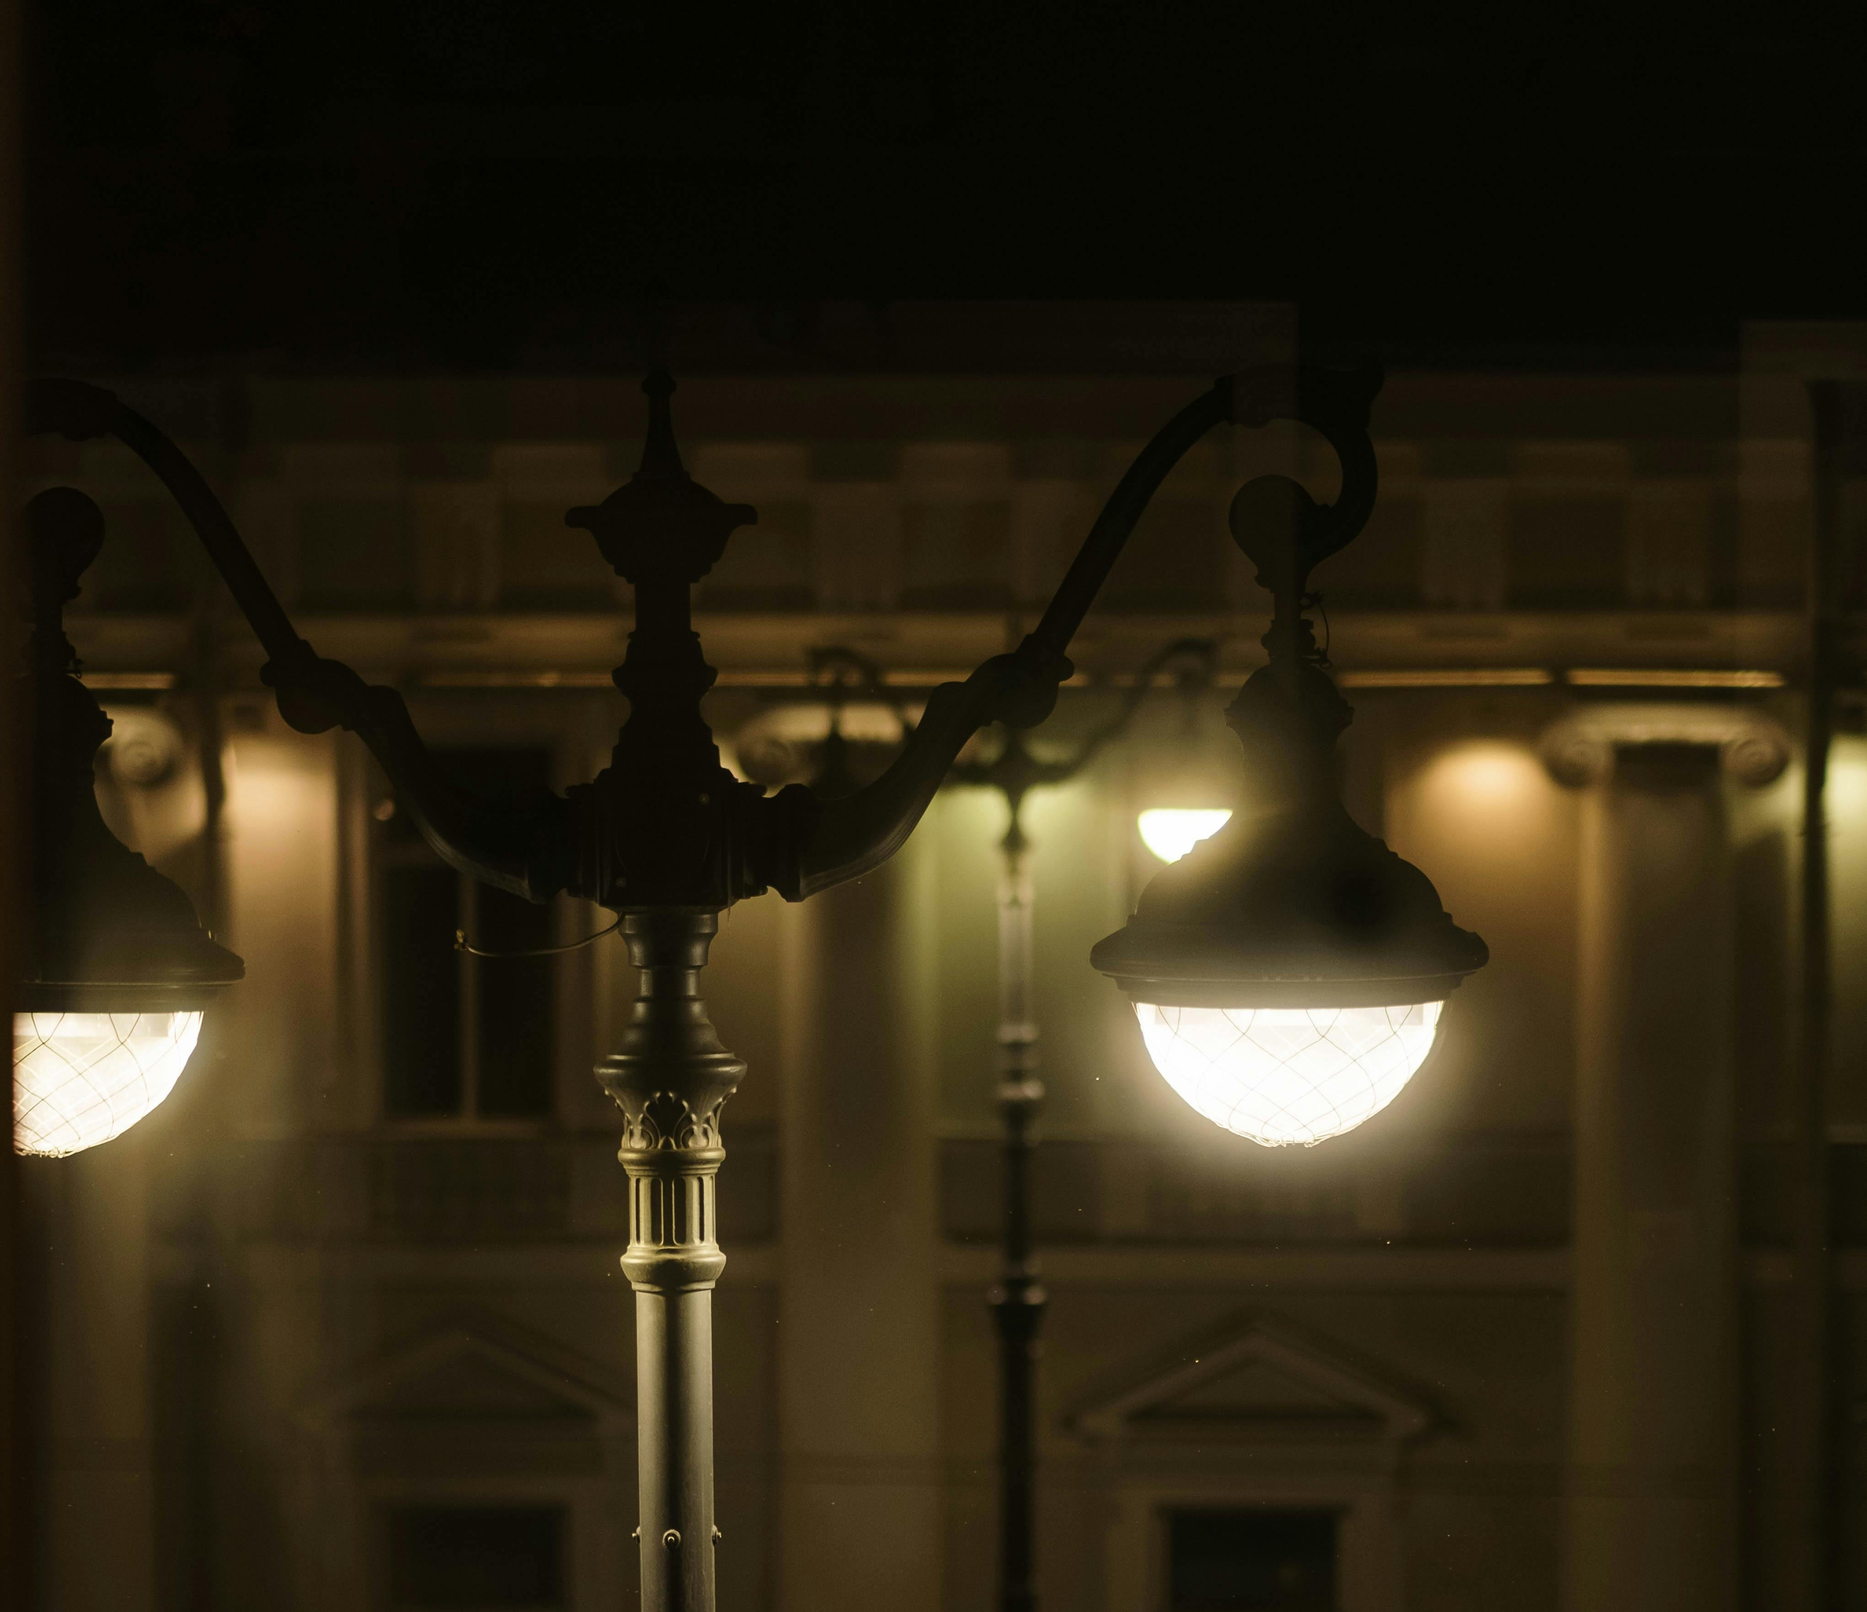
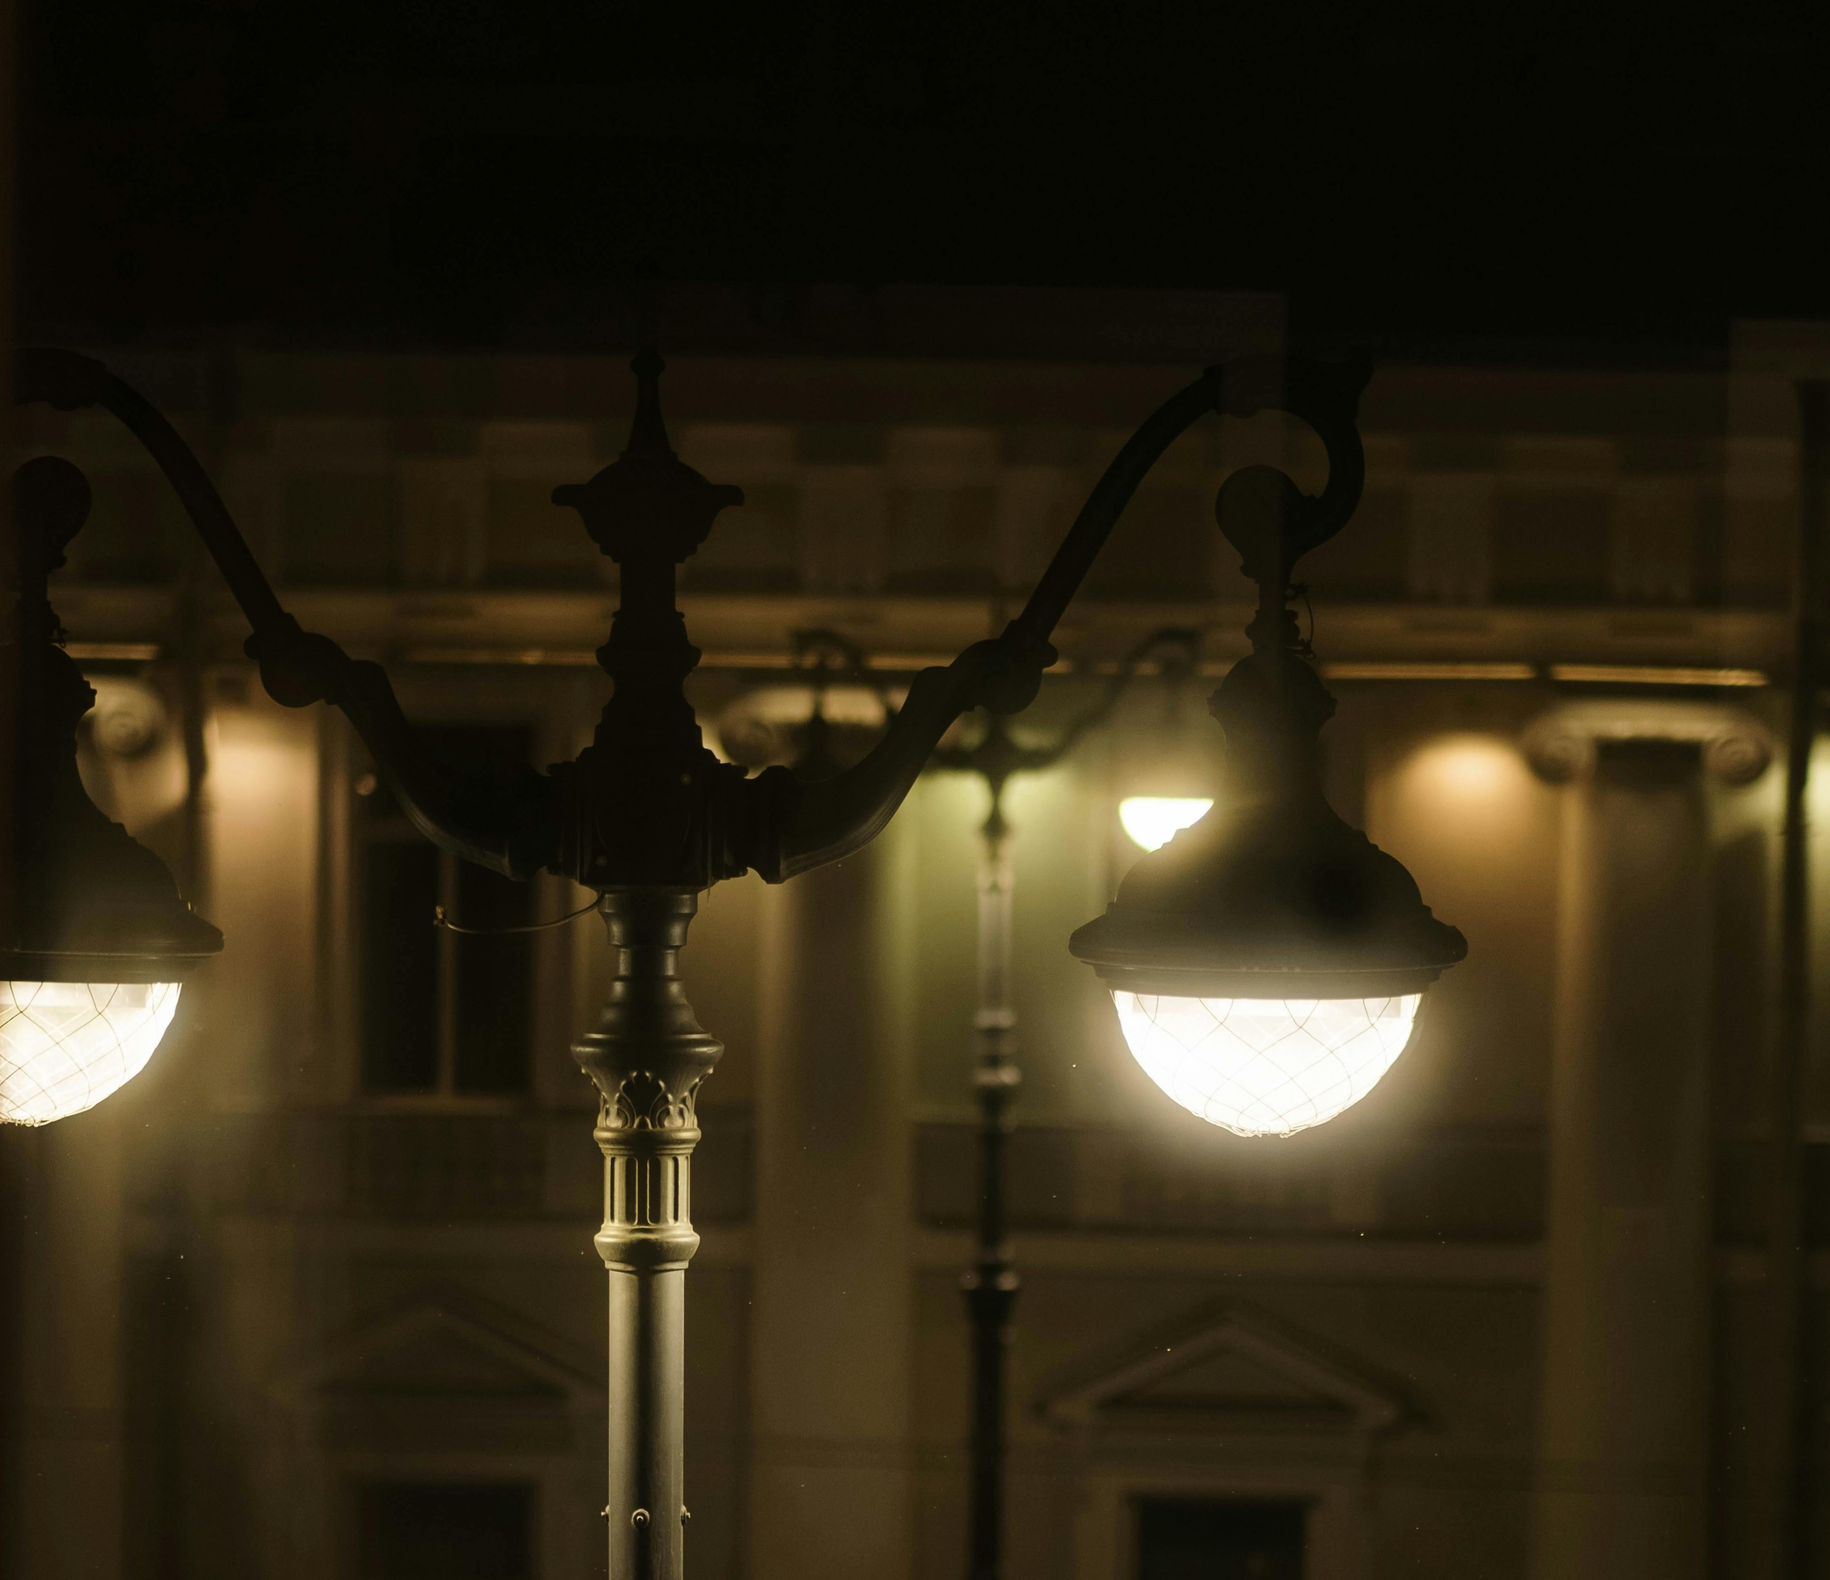
Edit in article page

diff --git a/src/app/articles/page.js b/src/app/articles/page.js
@@ -219,7 +219,7 @@ function Articles() {
                 <main className="max-w-4xl mx-auto px-6 py-10 space-y-8">
                     <p>در روزگاری که معماری مینیمال، شیشهای و دیجیتال همهجا را فرا گرفته، هنوز هم در گوشهوکنار ایران ویلاها و بناهایی میبینیم با ستونهای مرمری، قوسهای بزرگ و جزئیات سنگی پر از ظرافت. فرمهایی که گویی از دل تاریخ، از شکوه کاخهای باستانی تا معماری نئوکلاسیک اروپا، دوباره به زمان ما بازگشتهاند. اما این پافشاری بر فرمهای کلاسیک صرفاً نوستالژی نیست؛ بلکه پاسخی است به یک نیاز عمیقتر: نیاز انسان به حس شکوه، ثبات و جاودانگی.</p>
 
-                    <h2 className="text-2xl font-semibold text-yellow-700">زبان سنگ و احساس قدرت</h2>
+                    <h2 className="text-2xl font-semibold text-[#7e6229]">زبان سنگ و احساس قدرت</h2>
                     <p>ستونهای کلاسیک و قوسهای نیمدایره، فراتر از تزئیناتاند؛ آنها زبانی هستند برای بیان اقتدار و وقار. در فرهنگی که سرعت تغییر بیوقفه است، معماران و کارفرمایان لوکس به دنبال چیزی میگردند که “ابدی” به نظر برسد. ستونهای بلند و متقارن، حس ثبات و اطمینان را القا میکنند — همان حسی که نیاکان ما قرنها پیش در برابر بناهای سنگی، از تختجمشید تا عمارتهای قاجاری تجربه میکردند.</p>
 
                     <blockquote className="border-r-4 border-yellow-600 pr-4 italic text-gray-700 bg-yellow-50 p-4 rounded-lg">معماری کلاسیک فقط زبان سنگ نیست؛ زبان زمان است. گفتوگویی میان دوام، وقار و احساس انسانی.</blockquote>
@@ -268,22 +268,16 @@ function Articles() {
                             </div>
 
                             <div className="rounded-xl overflow-hidden shadow hover:shadow-lg transition bg-gray-50">
-                                <img src="/images/materials-thumb.jpg" alt="مصالح و جزئیات لوکس" class="w-full h-48 object-cover" />
+                                <img src="/img/classic/classic2.jpg" alt="مصالح و جزئیات لوکس" class="w-full h-48 object-cover" />
                                 <div className="p-4">
-                                    <h4 className="text-lg font-semibold mb-2">جزئیات و مصالح در پروژههای لوکس</h4>
-                                    <p className="text-sm text-gray-600 mb-2">نقش متریال در خلق هویت فضایی در معماری معاصر ایران.</p>
-                                    <a href="/articles/materials.html" className="text-yellow-700 font-medium hover:underline">ادامه مطلب →</a>
+                                    <h4 className="text-lg font-semibold mb-2">"بازتعریف معماری کلاسیک در دنیای معاصر"</h4>
+                                    <p className="text-sm text-gray-600 mb-2">Redefining Classical Architecture in The Contemprory World</p>
+                                    <Link href={'/classic'} className="text-yellow-700 font-medium hover:underline">ادامه مطلب →</Link>
                                 </div>
                             </div>
                         </div>
                     </div>
                 </section>
-
-                {/* <!-- Footer --> */}
-                {/* <footer class="text-center text-gray-500 text-sm py-6 border-t bg-gray-100">
-                    <p>© 2025 Roccovia Architecture Journal — All Rights Reserved.</p>
-                </footer> */}
-
 
             </section>
 
@@ -295,104 +289,5 @@ function Articles() {
 
 export default Articles
 
+// نقش متریال در خلق هویت فضایی در معماری معاصر ایران.
 
-
-
-// <div className="flex-col justify-center items-center p-5 bg-[#0A2B1B] text-[#eee2cb]">
-//     <p className="text-xl pb-7">مقالات / بلاگ → دربارهی ترندهای معماری، معرفی متریالها، نقد ساختمانهای معروف، تکنولوژیهای جدید (BIM، VR).</p>
-
-
-//     <div className="grid grid-cols-3 gap-1">
-
-//         <div className="border-1 p-5 col-span-2">
-//             چرا خانههای کلاسیک ارزش سرمایهگذاری بیشتری دارند؟»
-//             پاراگراف شروع:
-//             خانه کلاسیک فقط یک ملک نیست، یک اثر هنری است. همین ویژگی باعث میشود همیشه در بازار املاک، ارزش بیشتری پیدا کند و سریعتر خریدار پیدا کند.
-
-//             نکات کلیدی:
-
-//             کلاسیک هیچ وقت از مد نمیافتد → همیشه تقاضا دارد.
-
-//             مصالح سنگی و حجاری → ماندگاری بالا.
-
-//             ارتباط با سبک زندگی لوکس → مشتریان خاص.
-
-//             ارزش افزوده هنگام فروش (برخلاف نماهای مدرن پرریسک).
-//         </div>
-
-//         <div className="border-1 p-2">col 2</div>
-
-//         <div className="border-1 p-2">
-//             «۵ عنصر طلایی در دکوراسیون داخلی کلاسیک»
-
-//             پاراگراف شروع:
-//             دکوراسیون کلاسیک مثل یک قطعه موسیقی فاخر است؛ هر جزئیات کوچک نقش مهمی در ایجاد هماهنگی و شکوه دارد. پنج عنصر کلیدی همیشه در طراحی داخلی کلاسیک دیده میشوند.
-
-//             نکات کلیدی:
-
-//             ستونها و سرستونهای تزئینی.
-
-//             سقفهای گچبری با نقوش ظریف.
-
-//             لوسترهای کریستالی یا طلایی.
-
-//             کفپوش سنگی (مرمر/گرانیت).
-
-//             مبلمان با جزئیات منبت و پارچههای فاخر.
-//         </div>
-
-//         <div className="border-1 p-5 col-span-2">
-//             «چرا معماری کلاسیک همیشه نماد شکوه است؟»
-
-//             پاراگراف شروع:
-//             معماری کلاسیک بیش از دوهزار سال است که الهامبخش بناهای باشکوه در سراسر جهان بوده. از ستونهای عظیم یونانی گرفته تا کاخهای اروپایی و ویلاهای امروزی، این سبک همیشه یک پیام مشترک داشته: عظمت، تقارن و ماندگاری.
-
-//             نکات کلیدی:
-
-//             ریشه در یونان و روم باستان → نماد قدرت و نظم.
-
-//             استفاده از تناسبات طلایی → ایجاد هارمونی بصری.
-
-//             جزئیات لوکس (ستونها، قوسها، سنگ مرمر) → حس شکوه.
-
-//             چرا هنوز در ویلاها و پروژههای لاکچری ایران/دوبی محبوب است.
-//         </div>
-
-//         <div className="border-1 p-2 col-span-2">
-//             «راز تقارن در معماری فاخر»
-
-//             پاراگراف شروع:
-//             تقارن در معماری فقط یک اصل زیباییشناسی نیست، بلکه راز ماندگاری و وقار ساختمانهای کلاسیک است. وقتی چشم بیننده در یک نما الگوهای متقارن را دنبال میکند، ناخودآگاه حس تعادل و آرامش میگیرد.
-
-//             نکات کلیدی:
-
-//             تقارن در نما: ورودی مرکزی، ستونها، پنجرهها.
-
-//             تأثیر روانشناسی تقارن (حس قدرت و استواری).
-
-//             مثال از کاخها و عمارتهای کلاسیک.
-
-//             چطور در معماری امروز هم میتوان تقارن را مدرن پیاده کرد.
-//         </div>
-
-//         <div className="border-1 p-2">
-//             «۵ اشتباه رایج در طراحی نمای کلاسیک»
-
-//             پاراگراف شروع:
-//             نمای کلاسیک اگر درست اجرا شود، یک ساختمان معمولی را به عمارتی فاخر تبدیل میکند. اما کافی است چند اشتباه رایج رخ دهد تا نتیجه مصنوعی و ناموزون به نظر برسد.
-
-//             نکات کلیدی:
-
-//             استفاده افراطی از جزئیات (گچبری شلوغ بدون تناسب).
-
-//             ستونهای بدون تناسب (خیلی باریک یا خیلی قطور).
-
-//             متریال نامناسب (سنگ بیکیفیت یا رنگ غیراصیل).
-
-//             عدم توجه به تقارن.
-
-//             نورپردازی ضعیف که شکوه کار را از بین میبرد.
-//         </div>
-
-//     </div>
-// </div>

diff --git a/src/app/lighting/page.js b/src/app/lighting/page.js
@@ -21,7 +21,7 @@ function Lighting() {
                         <p className="text-3xl font-serif text-[#0A2B1B] dark:text-[#eee2cb] p-5">Lighting</p>
                     </div>
 
-                    <section class="relative w-full h-[70vh] flex items-center justify-center overflow-hidden">
+                    <section class="relative w-full h-auto md:h-[70vh] flex items-center justify-center overflow-hidden">
                         {/* <img src="/img/lighting/IMG_1940.jpg" alt="لوکس نوری در طراحی معماری" class="absolute inset-0 w-full h-full object-cover opacity-50" /> */}
 
                         <Image
@@ -33,14 +33,14 @@ function Lighting() {
                             className="absolute left-0 bottom-0 w-full h-auto object-cover opacity-50"
                         />
                         <div class="relative z-10 text-center text-white px-6">
-                            <h1 class="text-4xl md:text-6xl font-bold mb-4 drop-shadow-lg">نور، روح معماری</h1>
-                            <p class="text-lg md:text-2xl max-w-3xl mx-auto drop-shadow-md">
+                            <h1 class="text-3xl md:text-6xl font-bold md:mb-4 drop-shadow-lg">نور، روح معماری</h1>
+                            <p class="text-sm p-10 md:text-2xl max-w-3xl mx-auto drop-shadow-md">
                                 از روشنایی فضاهای داخلی تا شکوه نماهای شب، نورپردازی زبان پنهان معماری است — زبانی که بدون گفتن، حس میسازد.
                             </p>
                         </div>
                     </section>
 
-                    <div className="mt-3 md:mt-10">
+                    <div className="mt-5 md:mt-10">
                         <header class="mb-8 border-b border-gray-200 pb-6">
                             <h1 class="text-3xl sm:text-4xl font-extrabold">نور؛ جوهرهی نامرئی معماری</h1>
                             <p class="mt-2 text-gray-600">از تابش خورشید تا درخشش انسانساخته — نگاهی جامع به نور طبیعی، نور مصنوعی، دمای رنگ و شدت روشنایی در پروژههای لوکس</p>

diff --git a/src/components/homepage-archStyle/index.js b/src/components/homepage-archStyle/index.js
@@ -1,4 +1,5 @@
 import Image from "next/image"
+import Link from "next/link"
 
 
 
@@ -7,7 +8,7 @@ function HomepageArchitecturalStyles() {
 
     return (
         <>
-            <div>
+            <Link href={'/'}>
                 <div className="grid gap-2 grid-cols-4 p-5">
 
                     <div className="flex justify-center col-span-4">
@@ -57,7 +58,7 @@ function HomepageArchitecturalStyles() {
                         />
                     </div>
                 </div>
-            </div>
+            </Link>
         </>
     )
 }

diff --git a/src/components/headerBurger/index.js b/src/components/headerBurger/index.js
@@ -60,7 +60,7 @@ function HeaderBurger() {
 
 
 
-                                    <Link href={'/'}>
+                                    <Link href={'/landscape'}>
                                         <li className="p-2 hover:text-l hover:bg-green-950 hover:text-white transition">Landscape</li>
                                     </Link>
 
